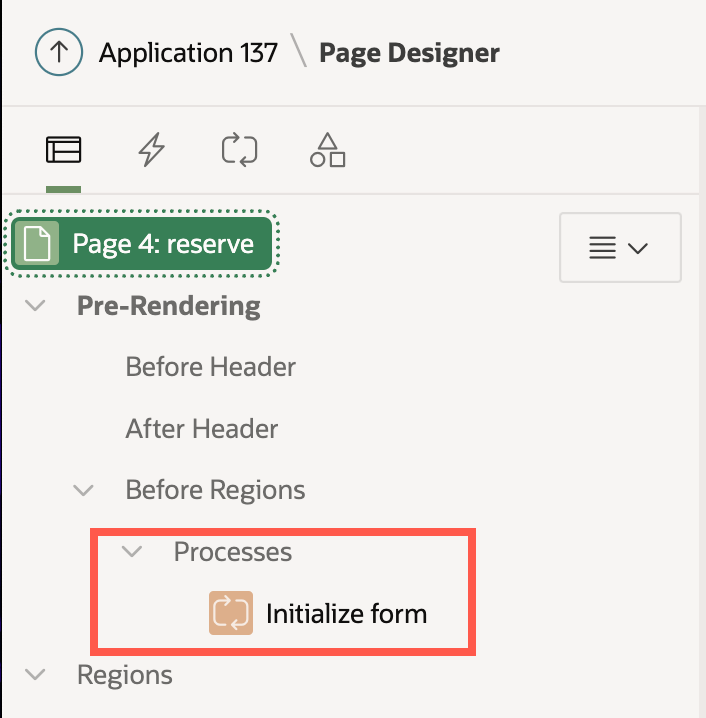
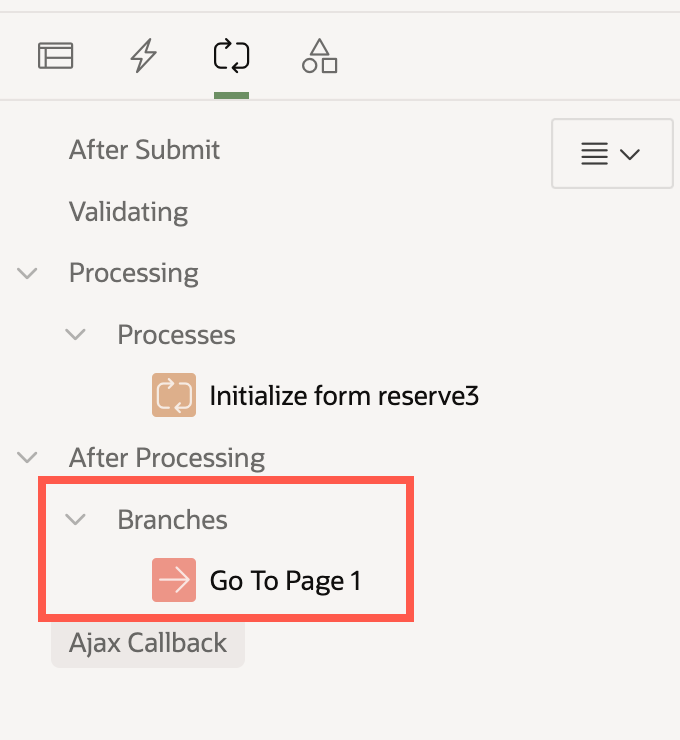
GITBOOK-14: change request with no subject merged in GitBook

diff --git a/SUMMARY.md b/SUMMARY.md
@@ -11,3 +11,4 @@
 * [長條圖顯示資料](chang-tiao-tu-xian-shi-zi-liao.md)
 * [將表單資料寫入資料庫](jiang-biao-dan-zi-liao-xie-ru-zi-liao-ku.md)
 * [載入頁面時，使用其它頁面的值初始化表單欄位](zai-ru-ye-mian-shi-shi-yong-qi-ta-ye-mian-de-zhi-chu-shi-hua-biao-dan-lan-wei.md)
+* [提交頁面後，轉跳其它頁面](ti-jiao-ye-mian-hou-zhuan-tiao-qi-ta-ye-mian.md)

diff --git a/ti-jiao-ye-mian-hou-zhuan-tiao-qi-ta-ye-mian.md b/ti-jiao-ye-mian-hou-zhuan-tiao-qi-ta-ye-mian.md
@@ -1,0 +1,9 @@
+# 提交頁面後，轉跳其它頁面
+
+## 原理
+
+在 After Processing 階段加入 Branch.
+
+在 Branch 中指定要轉跳的目的頁面。
+
+![](<.gitbook/assets/image (19).png>)
